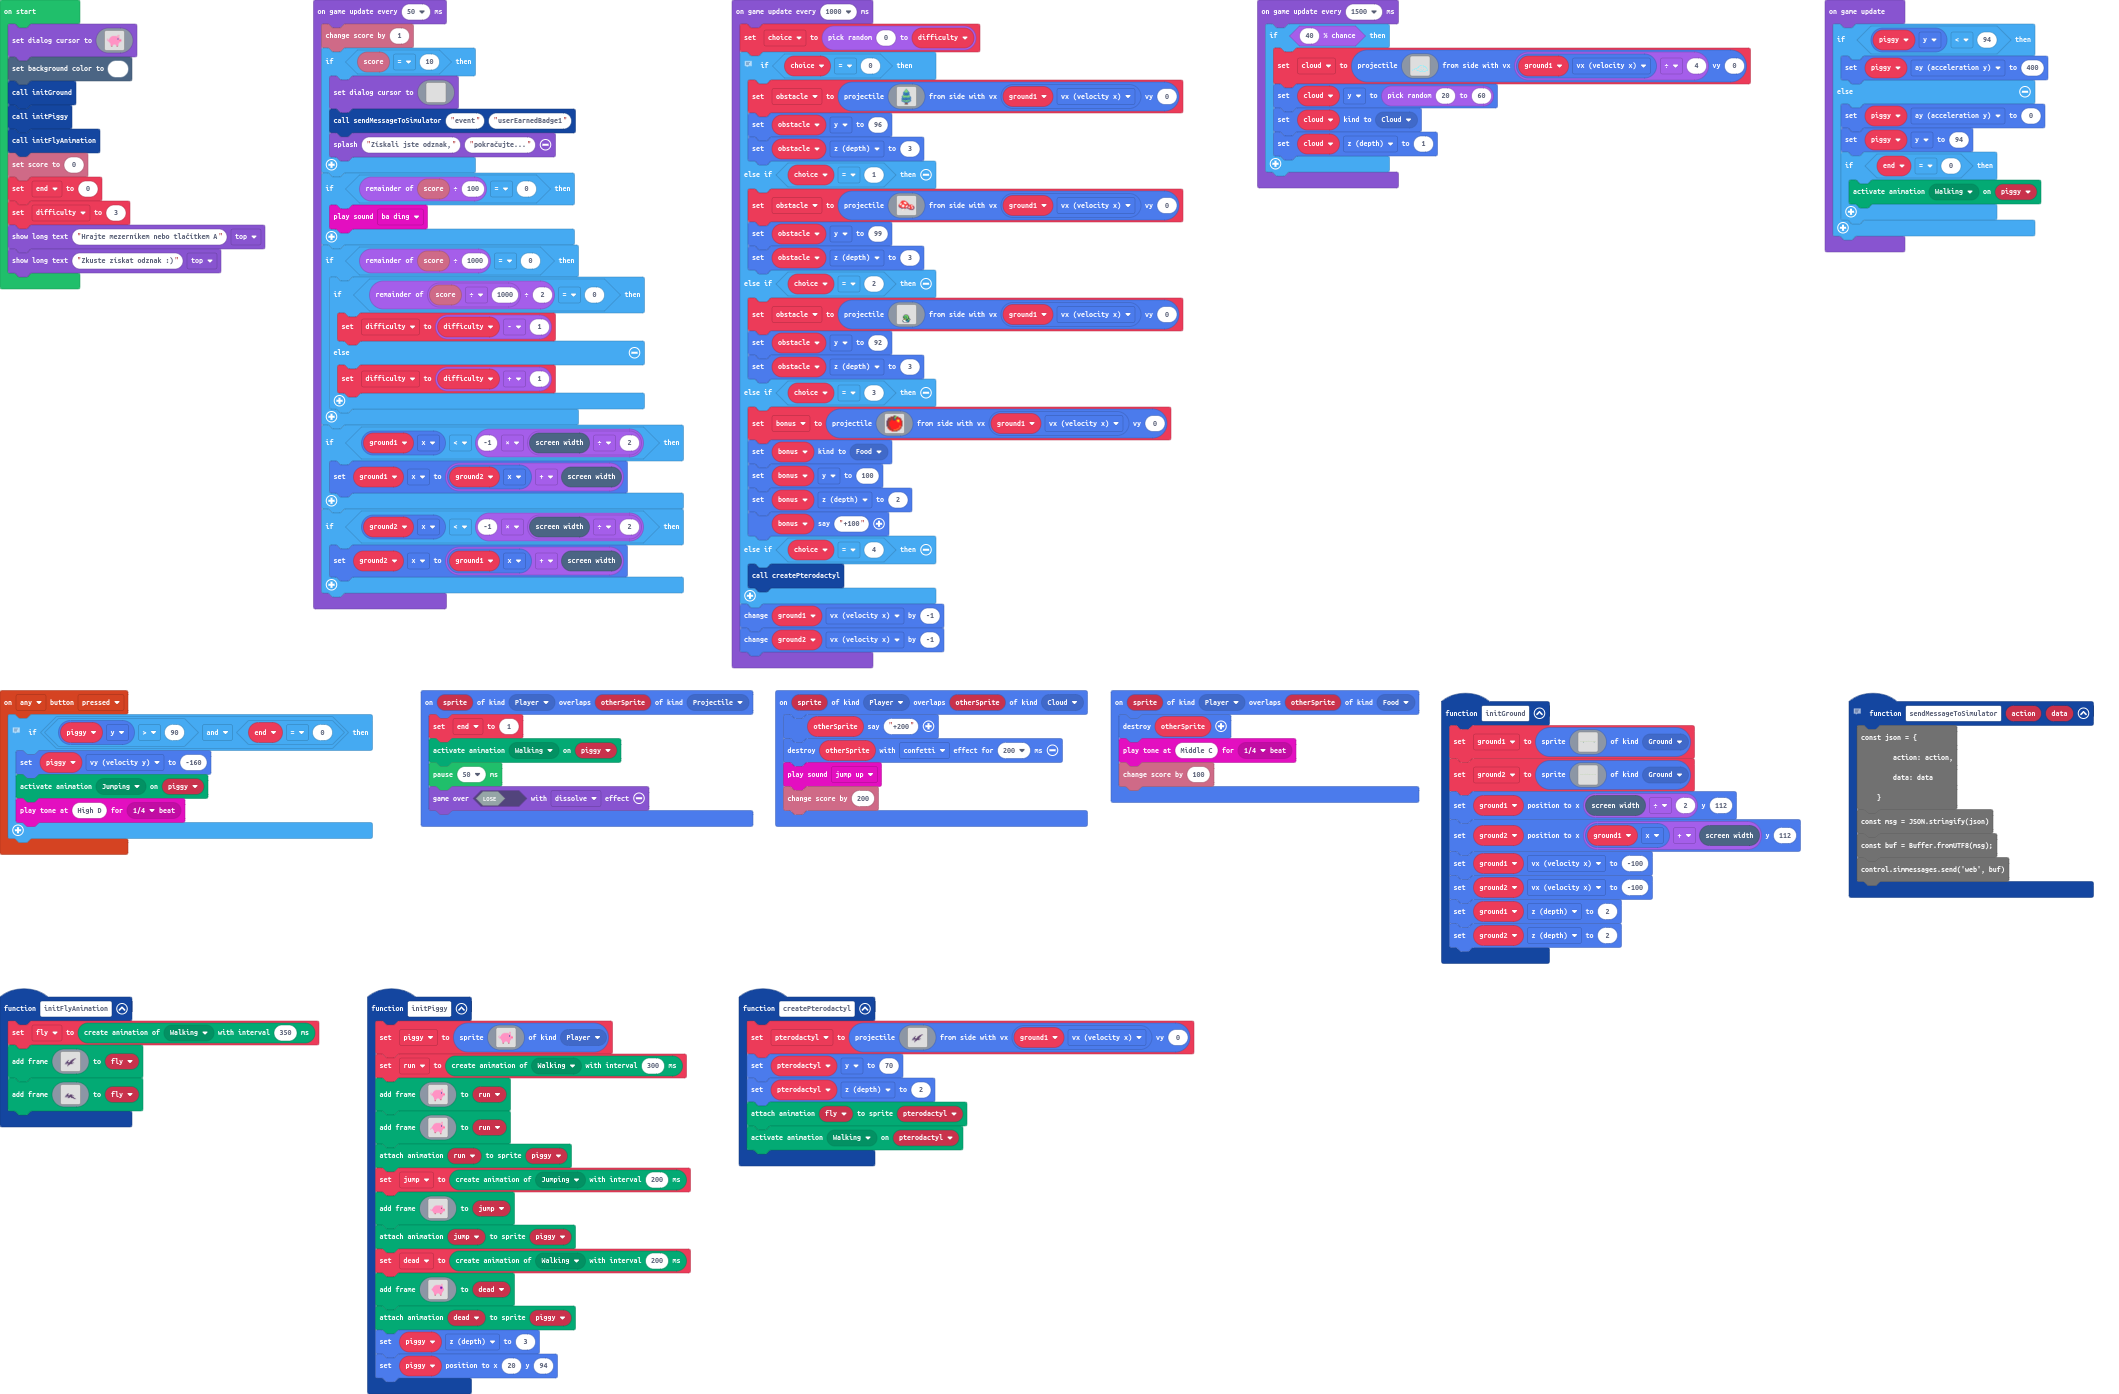
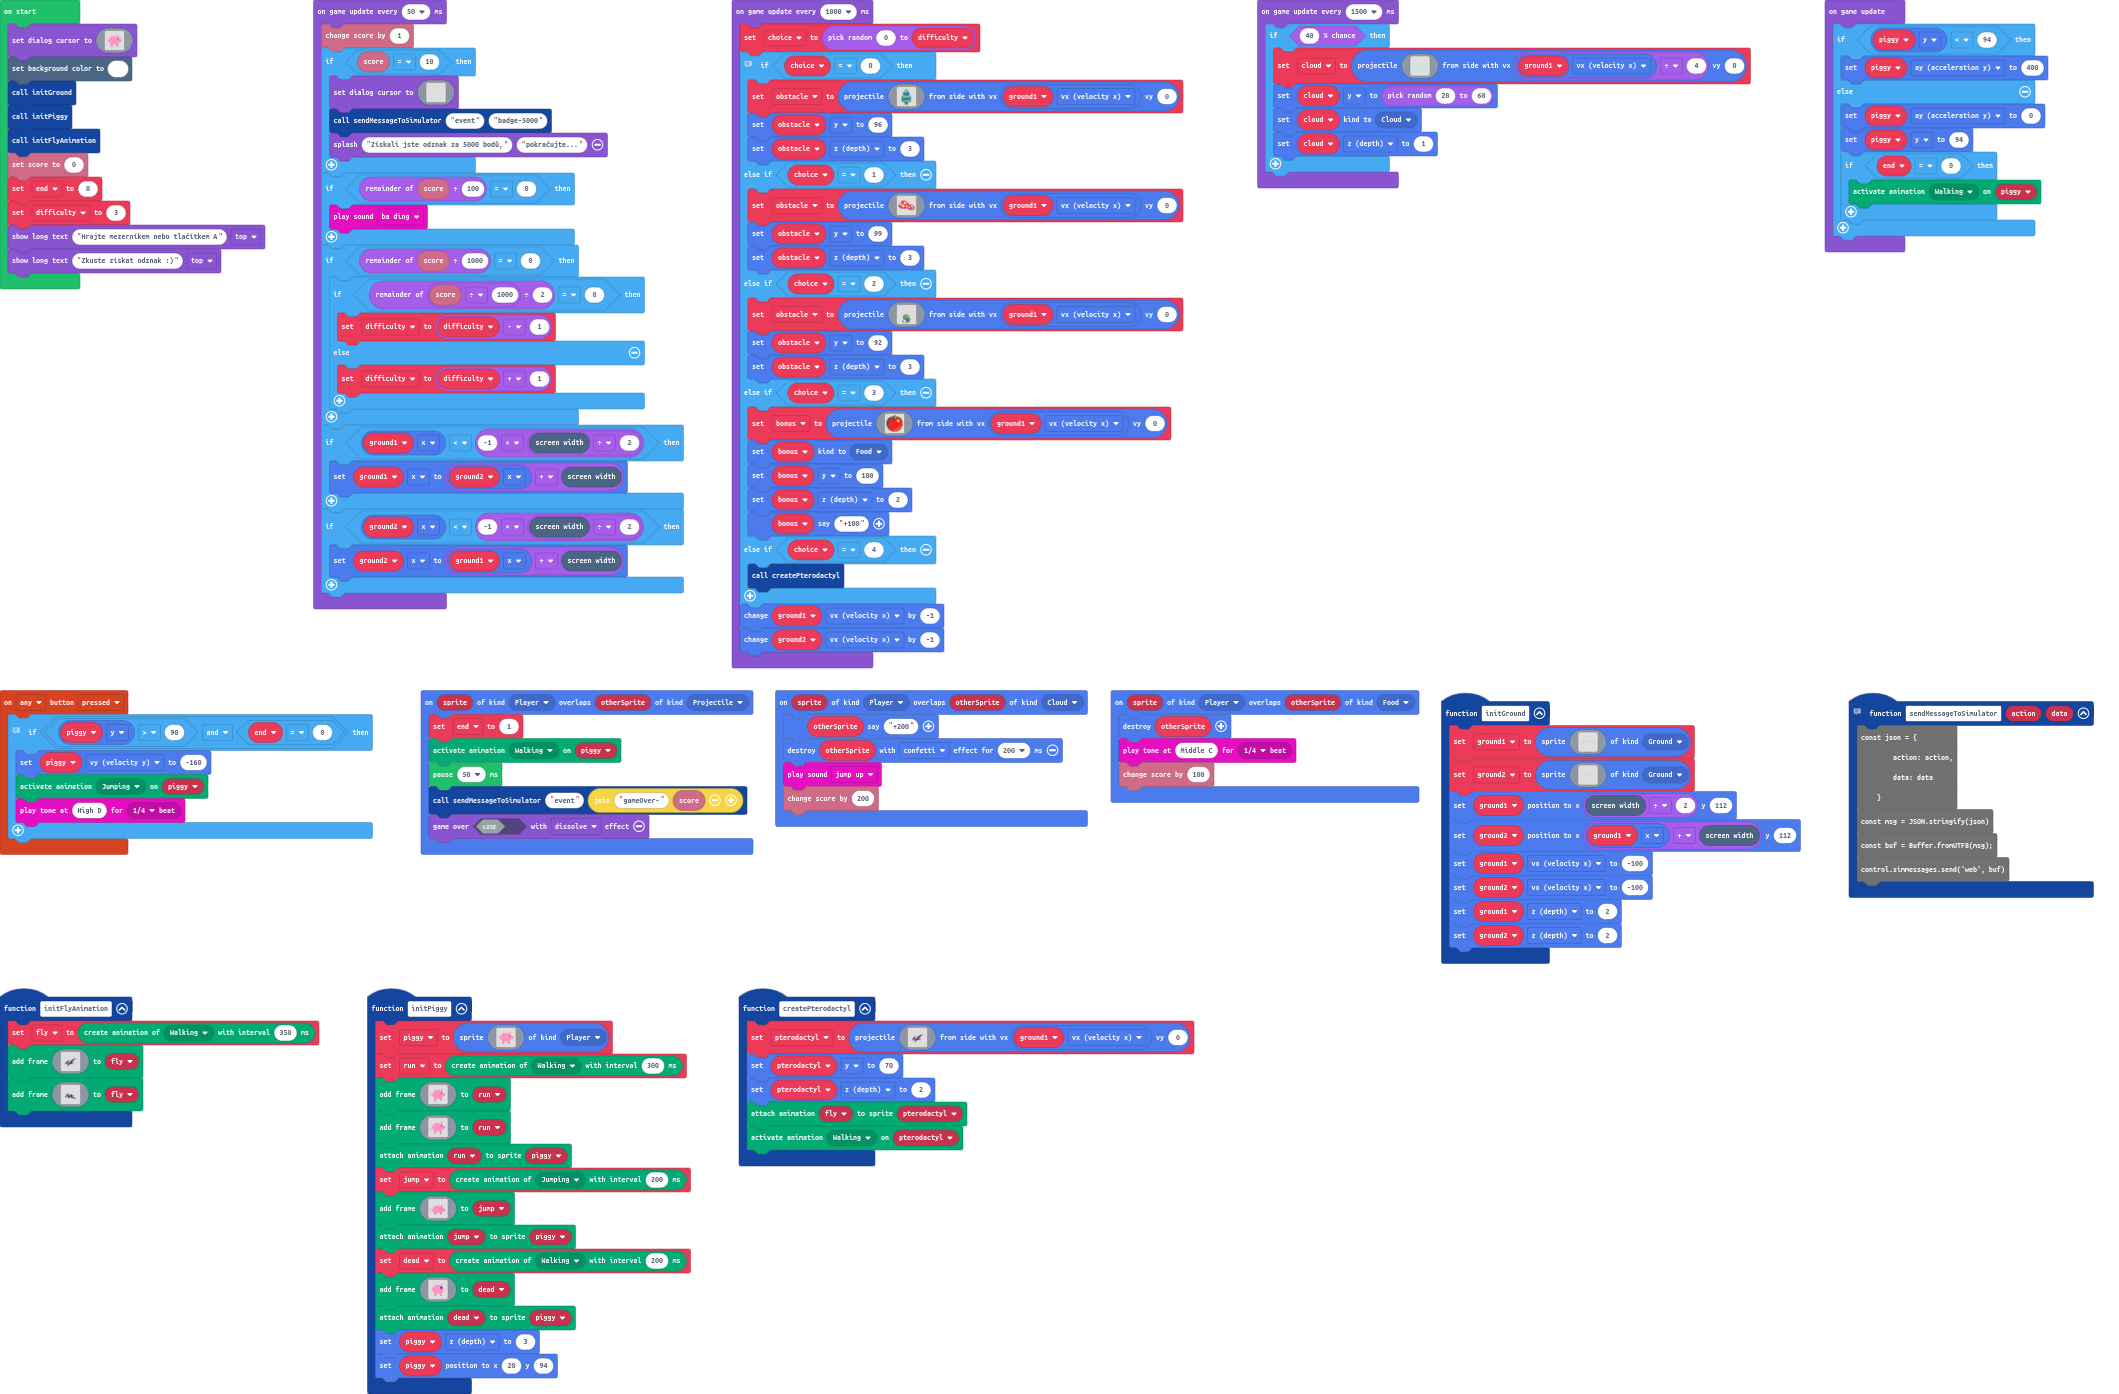
Update main.blocks, main.ts, images.g.jres, images.g.ts

Changed region(s): [[0.1869, 0.5552, 0.3738, 0.6169], [0.218, 0.0617, 0.3115, 0.1234]]

diff --git a/images.g.ts b/images.g.ts
@@ -527,6 +527,42 @@ c2222111122111c2222112c.
 . . . . . . . . . . . . . . . . 
 . . . . . . . . . . . . . . . . 
 `;
+            case "image12":return img`
+. . . . . . . . . . . . . . . . 
+. . . . . . . . . . . . . . . . 
+. . . . . . . . . . . . . . . . 
+. . . . . . . . . . . . . . . . 
+. . . . . . . . . . . . . . . . 
+. . . . . . . . . . . . . . . . 
+. . . . . . . . . . . . . . . . 
+. . . . . . . . . . . . . . . . 
+. . . . . . . . . . . . . . . . 
+. . . . . . . . . . . . . . . . 
+. . . . . . . . . . . . . . . . 
+. . . . . . . . . . . . . . . . 
+. . . . . . . . . . . . . . . . 
+. . . . . . . . . . . . . . . . 
+. . . . . . . . . . . . . . . . 
+. . . . . . . . . . . . . . . . 
+`;
+            case "image13":return img`
+. . . . . . . . . . . . . . . . 
+. . . . . . . . . . . . . . . . 
+. . . . . . . . . . . . . . . . 
+. . . . . . . . . . . . . . . . 
+. . . . . . . . . . . . . . . . 
+. . . . . . . . . . . . . . . . 
+. . . . . . . . . . . . . . . . 
+. . . . . . . . . . . . . . . . 
+. . . . . . . . . . . . . . . . 
+. . . . . . . . . . . . . . . . 
+. . . . . . . . . . . . . . . . 
+. . . . . . . . . . . . . . . . 
+. . . . . . . . . . . . . . . . 
+. . . . . . . . . . . . . . . . 
+. . . . . . . . . . . . . . . . 
+. . . . . . . . . . . . . . . . 
+`;
         }
         return null;
     })

diff --git a/main.ts b/main.ts
@@ -64,6 +64,7 @@ sprites.onOverlap(SpriteKind.Player, SpriteKind.Projectile, function (sprite, ot
     end = 1
     animation.setAction(piggy, ActionKind.Dead)
     pause(50)
+    sendMessageToSimulator("event", "gameOver-" + info.score())
     game.over(false, effects.dissolve)
 })
 function initFlyAnimation () {
@@ -137,8 +138,8 @@ game.onUpdateInterval(50, function () {
             . . . . . . . . . . . . . . . . 
             . . . . . . . . . . . . . . . . 
             `)
-        sendMessageToSimulator("event", "userEarnedBadge1")
-        game.splash("Získali jste odznak,", "pokračujte...")
+        sendMessageToSimulator("event", "badge-5000")
+        game.splash("Získali jste odznak za 5000 bodů,", "pokračujte...")
     }
     if (info.score() % 100 == 0) {
         music.baDing.play()
